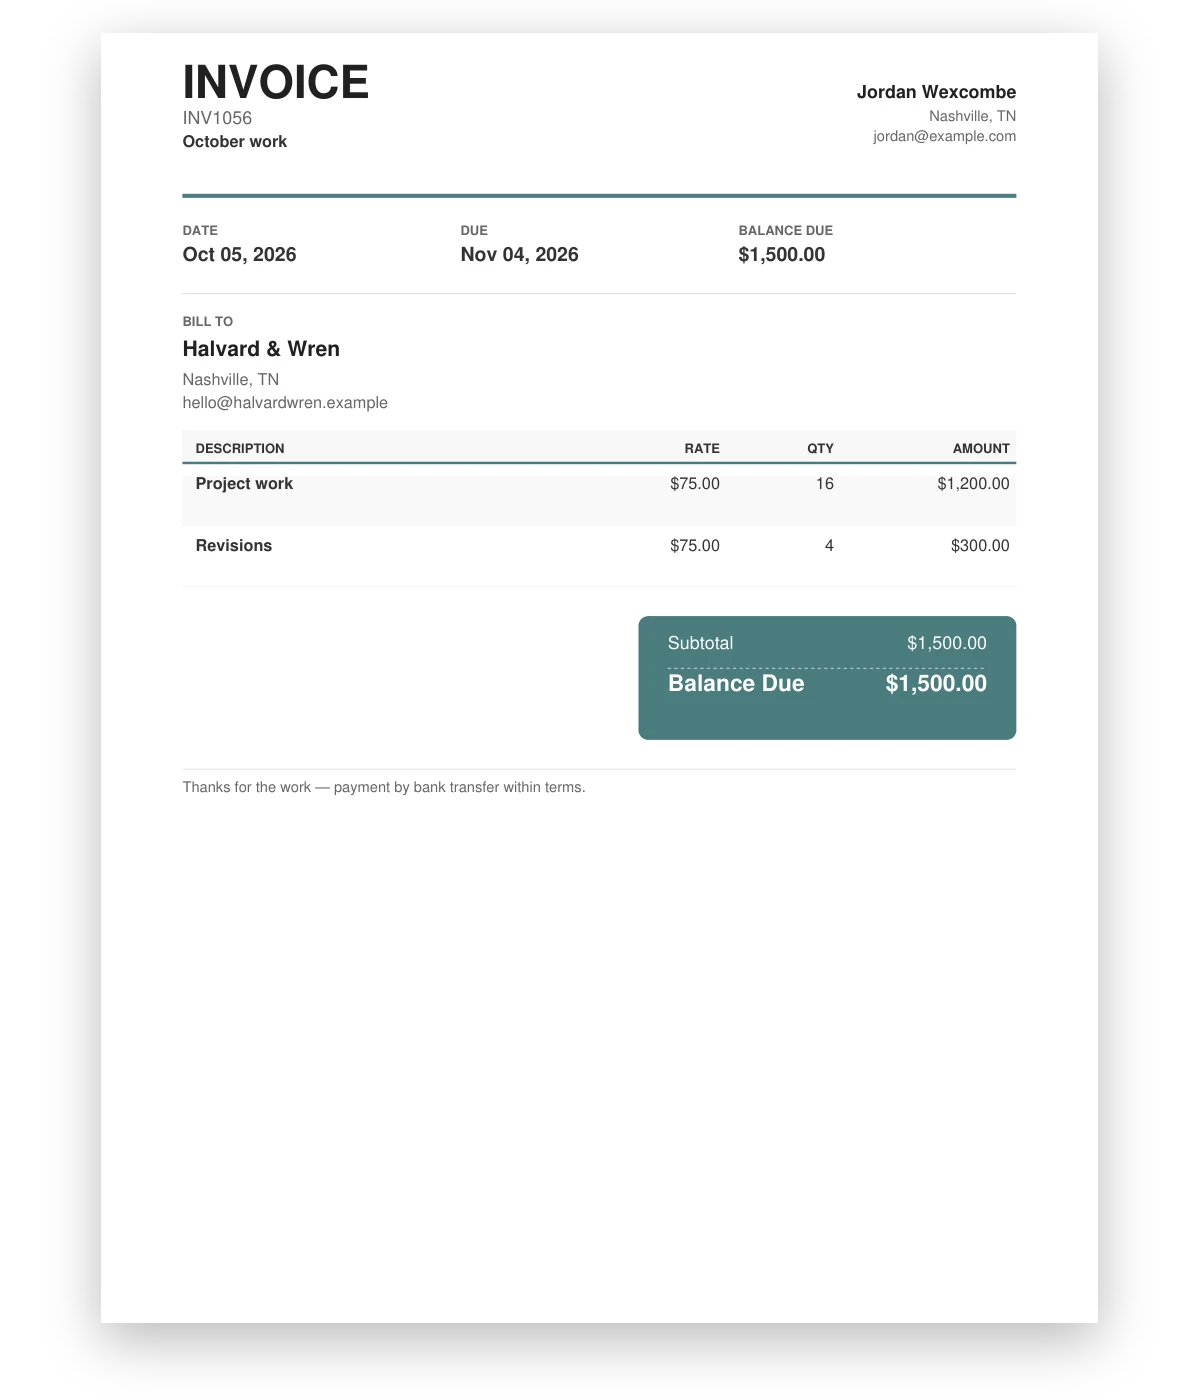
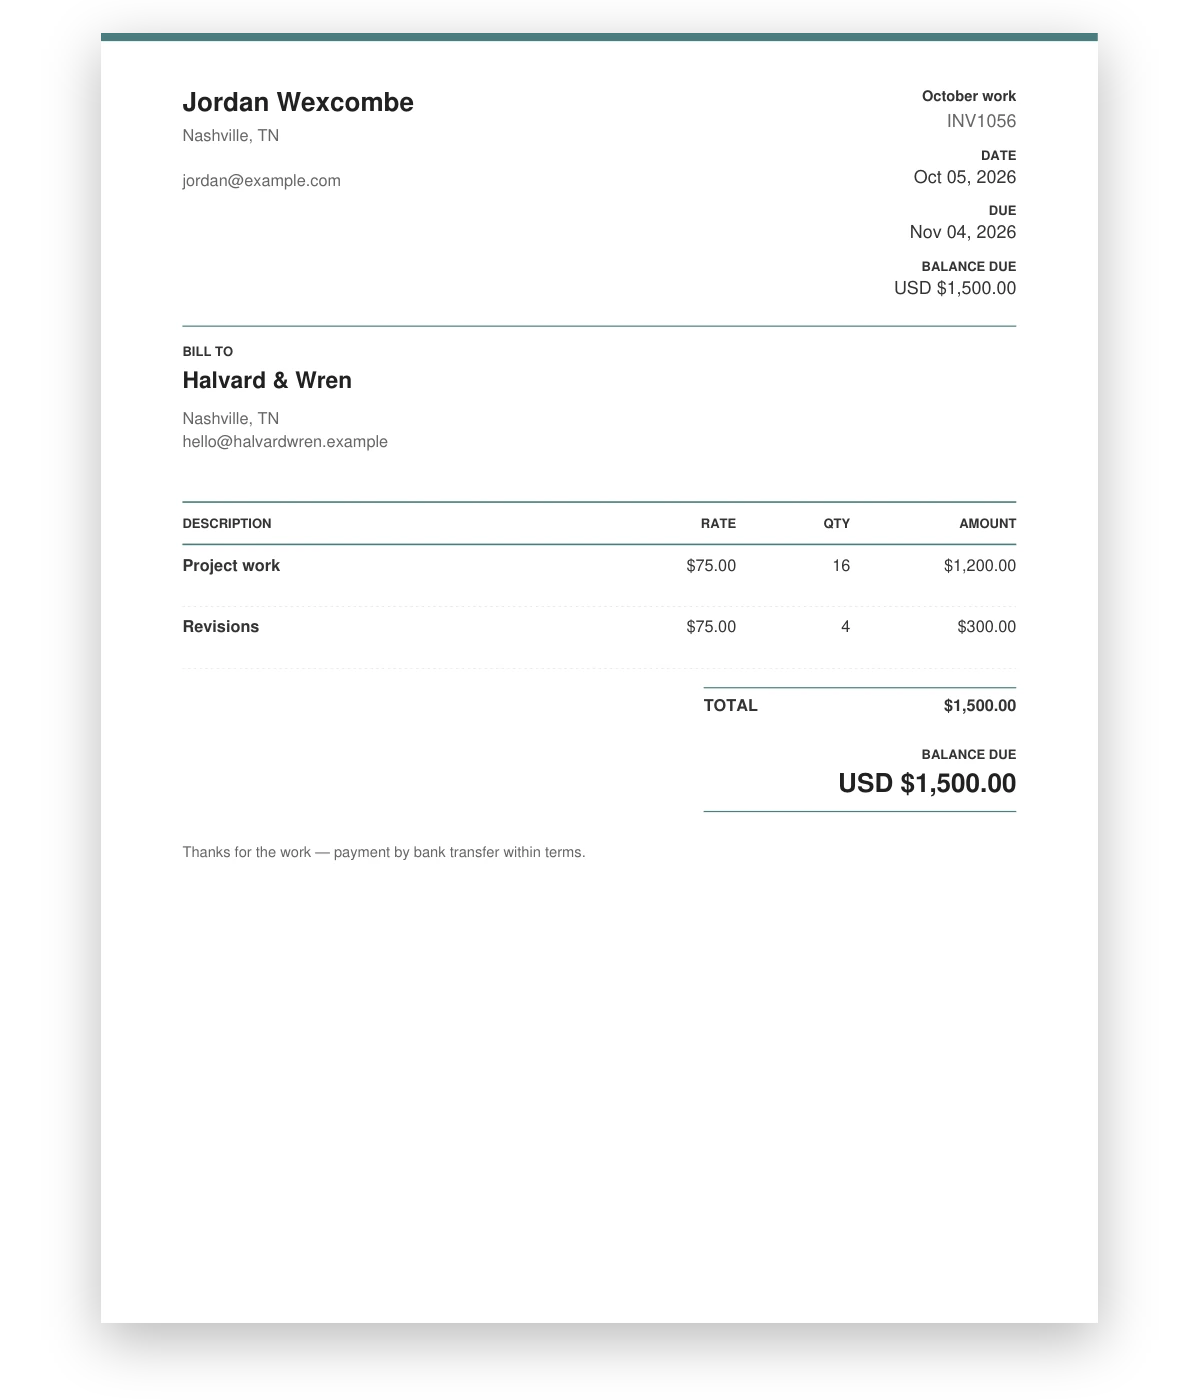
/mac hero: Classic placeholder (Daniel's template pick); Open the PDF -> inv1056-classic.pdf
Daniel picked Classic in the motion chat's Motion Picks (2026-10-05 17:14Z). The two placeholders are now a render of inv1056-classic.pdf (byte-identical to the film kit's) in the stills' 1200x1400 frame, so the motion chat's final stills drop in over the same files. The content-only alt holds. axe 0 violations in both themes; the 8 theme paths pass.

diff --git a/mac.html b/mac.html
@@ -142,8 +142,9 @@
                deeper shadow and a faint rim. The page theme picks one (the
                dashboard's .shot rules; no .figure, whose frame would box the
                transparent image). Both are lazy and the head script preloads the
-               visible one. PLACEHOLDERS (2026-10-05, a render of inv1056-modern.pdf):
-               the invoice film's stills replace these two files at the same 1200×1400. -->
+               visible one. PLACEHOLDERS (2026-10-05, a render of inv1056-classic.pdf,
+               Daniel's template pick): the invoice film's stills replace these two
+               files at the same 1200×1400. -->
           <figure class="hero-invoice shot" id="invoice">
             <picture class="shot-dark">
               <img src="/assets/screenshots/mac-hero-dark.webp" width="1200" height="1400" style="width: 100%; height: auto" alt="An invoice for Halvard &amp; Wren from Jordan Wexcombe: project work and revisions at $75, $1,500.00 due." loading="lazy" fetchpriority="high" />
@@ -153,7 +154,7 @@
             </picture>
             <figcaption>
               An invoice made in Freelance Easy; the names on it are fictional.
-              <a href="/assets/samples/inv1056-modern.pdf">Open the PDF</a>
+              <a href="/assets/samples/inv1056-classic.pdf">Open the PDF</a>
             </figcaption>
           </figure>
         </div>

diff --git a/HANDOFF.md b/HANDOFF.md
@@ -480,15 +480,19 @@ Legal's demo-data rule G11 (vault `03 - Operations/Legal & Compliance Audit — 
   - The invoice stays light paper in both themes, as Daniel asked ("the invoice itself should be light mode"), and there's no lifted totals box.
   - No new CSS. `.figure` is left off, because its border and box would frame the transparent image. The two images carry `width: 100%; height: auto` inline, so `styles.css` (the premium pass's file) is untouched.
   - Loading: both images are `loading="lazy"`, so the hidden one never loads, and the head script preloads the visible theme's image at high priority. This is Sol's P2: before, a light-theme visitor downloaded the hidden dark image eagerly and lazy-loaded their own.
-  - The caption: "An invoice made in Freelance Easy; the names on it are fictional. Open the PDF" (`inv1056-modern.pdf`). Legal's wording: "The client is fictional" implied the sender might be real, and the persona shown using the product would read as a real customer (an implied endorsement).
-  - **The placeholders** are a render of `assets/samples/inv1056-modern.pdf` (the motion chat's INV1056 in Modern) in that frame, 2026-10-05. They replaced an earlier placeholder the same day (the app's invoice page with its toolbar, 1200×1012), to match the stills' frame.
-  - **When the motion chat's stills land** (`hero-light.png` / `hero-dark.png`, after Daniel picks the template):
+  - The caption: "An invoice made in Freelance Easy; the names on it are fictional. Open the PDF" (`inv1056-classic.pdf` since Daniel's template pick; `inv1056-modern.pdf` before). Legal's wording: "The client is fictional" implied the sender might be real, and the persona shown using the product would read as a real customer (an implied endorsement).
+  - **Daniel picked CLASSIC** for the film and the hero (the motion chat's Motion Picks, 2026-10-05 17:14Z; its recommendation was Bold).
+  - **The placeholders** are a render of `assets/samples/inv1056-classic.pdf` in that frame (2026-10-05, after the pick). That PDF is byte-identical to the motion chat's `kit/pdf/INV1056-classic.pdf`.
+    - They replaced a Modern render from earlier the same day, which had itself replaced the app's invoice page with its toolbar (1200×1012), to match the stills' frame.
+    - The alt describes the content, not the template's styling, so it holds for Classic.
+  - **When the motion chat's stills land** (`hero-light.png` / `hero-dark.png`, in Classic):
     - convert them to WebP with alpha over these two files (the same 1200×1400, so the markup doesn't change);
-    - point "Open the PDF" at the picked template's `inv1056-<template>.pdf` (copied from its `kit/pdf/`);
-    - update the alt if the template changes what it shows;
+    - "Open the PDF" already points at `inv1056-classic.pdf`. If the kit re-renders its Classic PDF, re-copy it;
+    - re-read the alt against the final stills;
     - re-run axe in both themes;
     - send legal a 2-minute G11 look.
-  - The deck's files (`inv1056-{bold,classic,minimal}.pdf`, `inv1056-*.webp`, the collage script's `--set inv1056`) stay until the final stills are in; delete the unused ones then.
+  - The deck's files (`inv1056-{bold,modern,minimal}.pdf`, all four `inv1056-*.webp`, the collage script's `--set inv1056`) are unused now. Delete them together with the final-stills swap.
+  - **Checked after the Classic swap (local, 2026-10-05):** axe 4.12.1 finds 0 violations on `/mac` in both themes; the 8 theme paths pass (a first visit fetches only `mac-hero-light.webp`, a stored dark fetches only `mac-hero-dark.webp`); screenshots at 1280 px and 375 px in both themes; "Open the PDF" resolves to the Classic PDF.
 - **Checked on the branch preview (2026-10-05):**
   - before the hero change: `node scripts/test-worker.mjs` 46/46; `check-download-wiring.py` 8/8 plus the inert `/js/script.js`; axe-core 4.12.1 (WCAG 2.1 A/AA, headless Chromium) finds 0 violations on `/mac` and `/` in the dark and the light theme, while the control (`/privacy` with `main`'s styles) still fails on the link issues legal v2 fixes;
   - after it (`1ad2344`): every served file byte-identical to the branch; axe 0 violations on `/mac` in both themes (the `/privacy` control fails as expected); download wiring 8/8 plus the inert analytics route.
